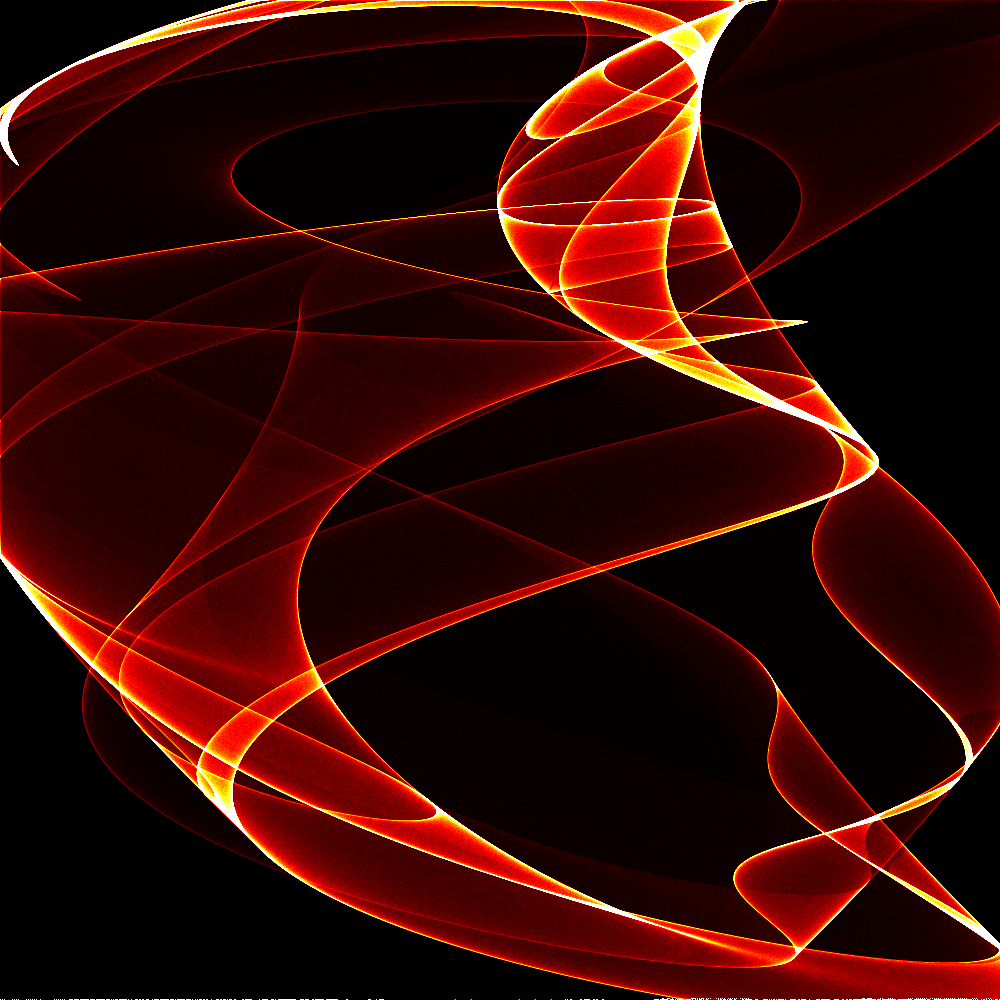
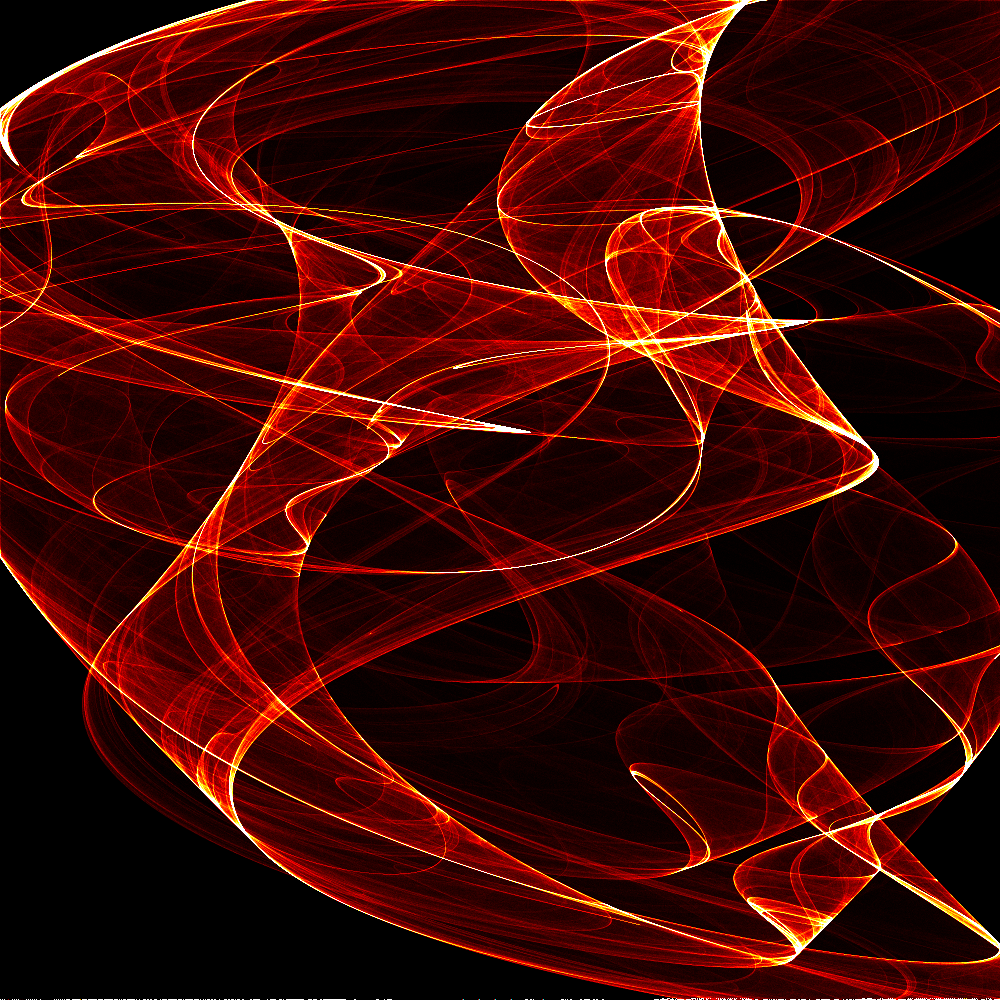
Improve image2.png

diff --git a/create_image.cpp b/create_image.cpp
@@ -6,12 +6,12 @@
 #include <math.h>
 #include <stdlib.h>
 
-const float A = 1.5;
-const float B = .8;
-const float C = 1.5;
-const float D = 2.5;
+const float A = 1.4;
+const float B = .9;
+const float C = 2.;
+const float D = 1.9;
 const int num_points = 100000000;
-const int iterations = 20;
+const int iterations = 15;
 
 const int scale = 200;
 const int height = 1000;
